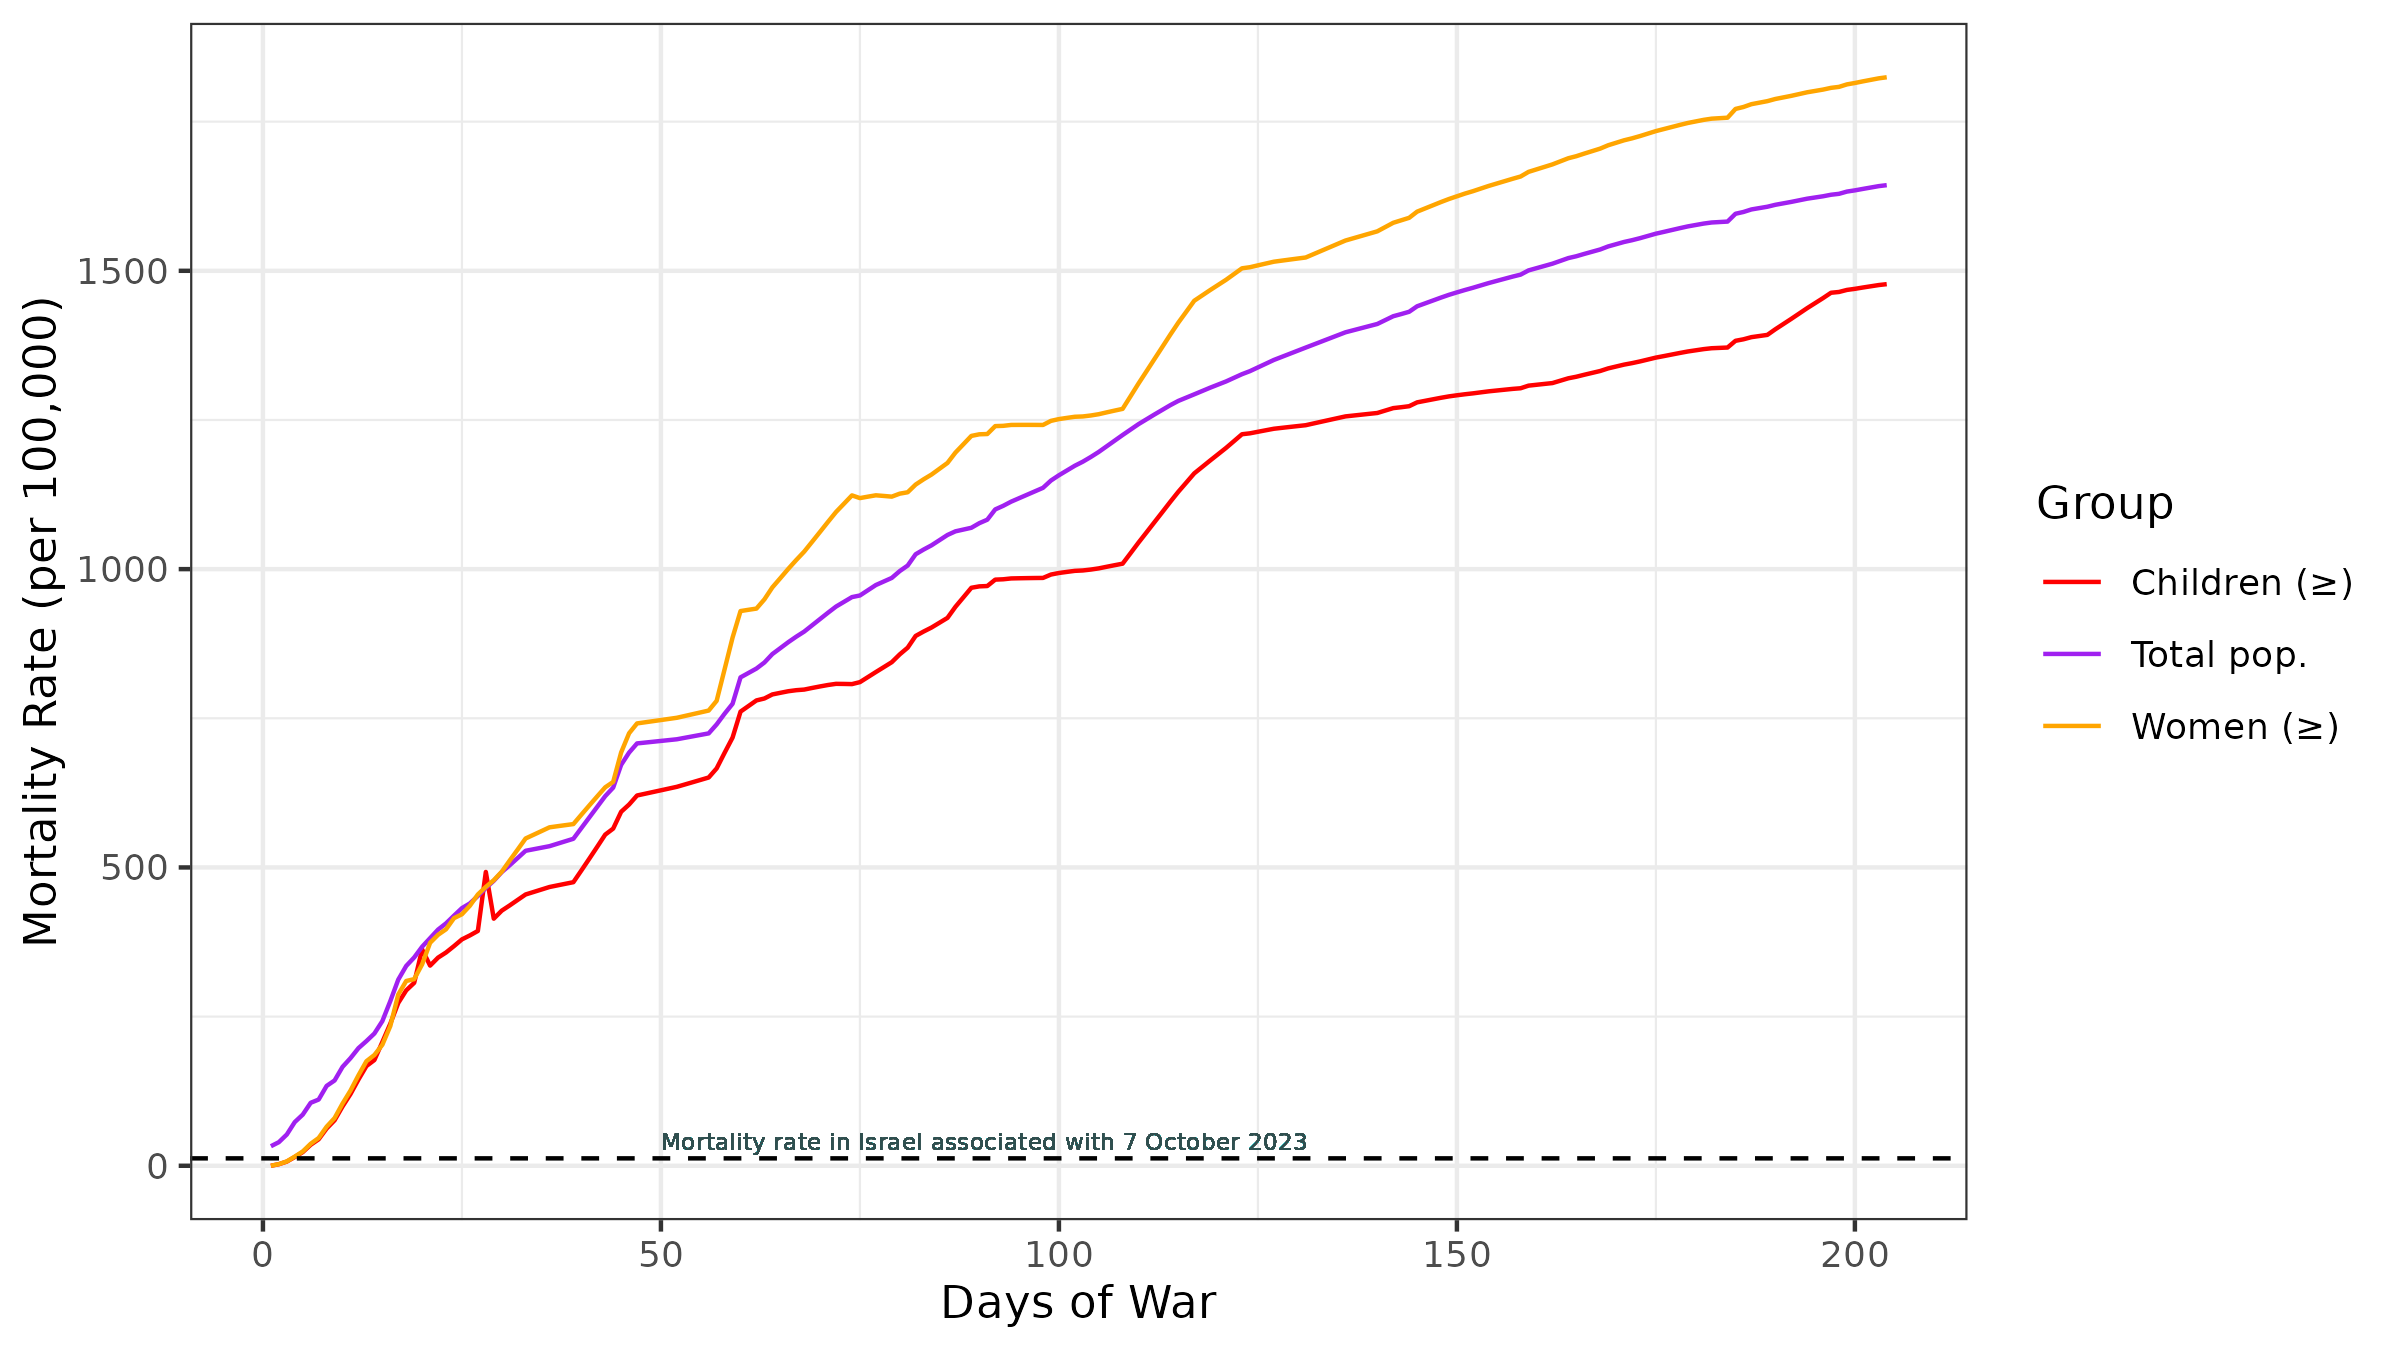
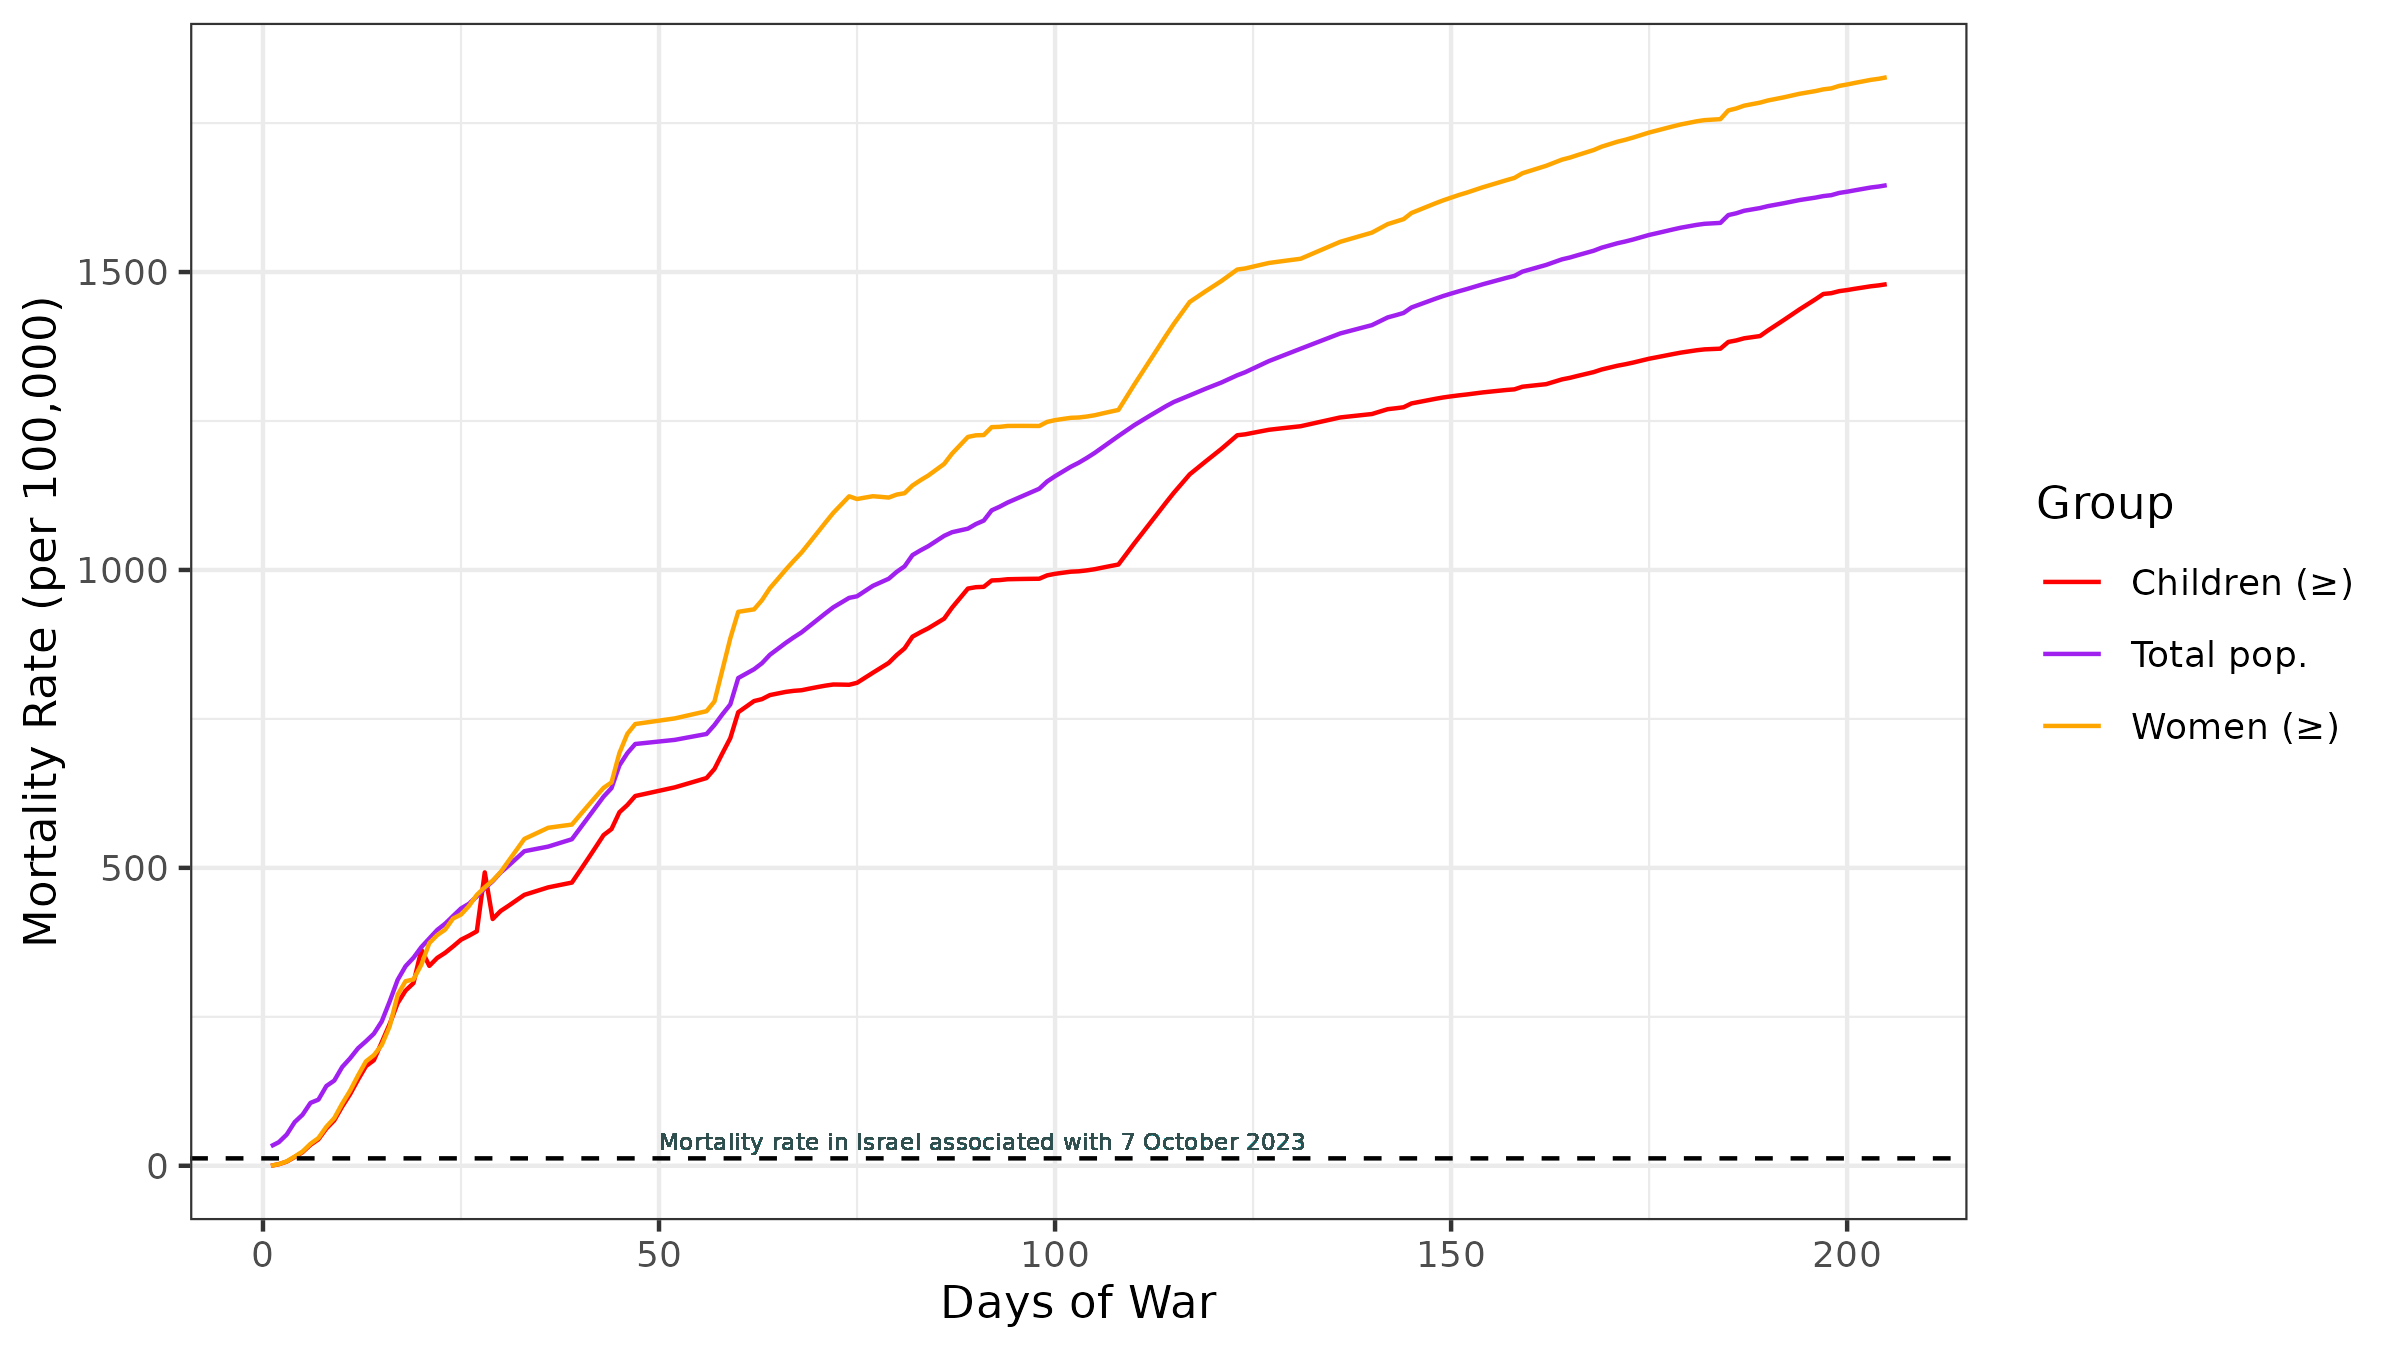
Data updated 30 April 2024

diff --git a/README.md b/README.md
@@ -1,5 +1,5 @@
 Tracking mortality in Palestine following Israel's assault against Gaza (2023-2024). 
-*Last updated 28 April 2024*
+*Last updated 30 April 2024*
 
 # Gaza Conflict Tracker
 
